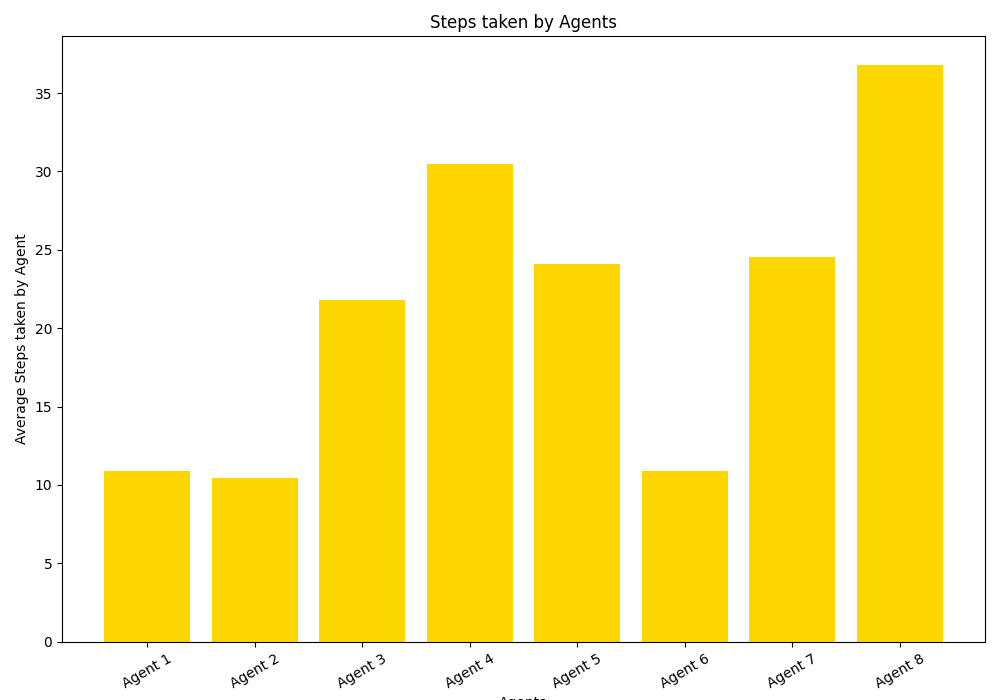
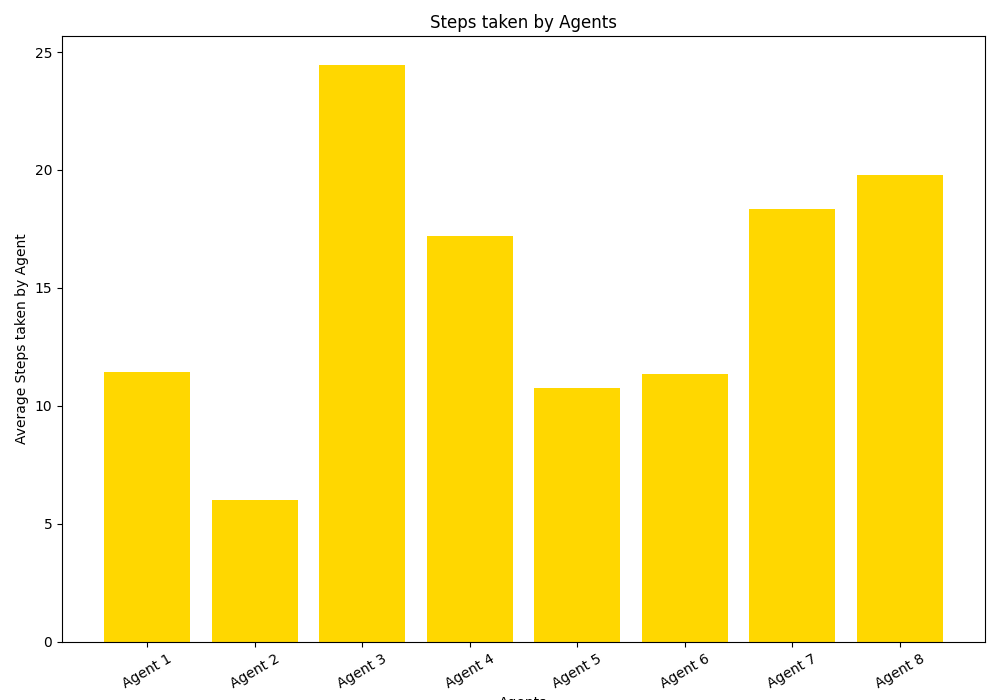
.

diff --git a/main.py b/main.py
@@ -9,8 +9,8 @@ import matplotlib.pyplot as plt
 
 def main():
 
-    num_runs = 100
-    num_environments = 30
+    num_runs = 3
+    num_environments = 3
     total_runs = num_runs * num_environments
 
     a1_caught = 0
@@ -641,9 +641,9 @@ def main():
 
     fig_combined_partial = plt.figure(figsize = (15, 7))
 
-    plt.bar(defective_Agent_names[6:12], defective_Catch_rates[6:12], color ='green')
-    plt.bar(defective_Agent_names[6:12], defective_Death_rates[6:12], color ='maroon')
-    plt.bar(defective_Agent_names[6:12], defective_Time_Out_rates[6:12], color ='yellow')
+    plt.bar(defective_Agent_names, defective_Catch_rates, color ='green')
+    plt.bar(defective_Agent_names, defective_Death_rates, color ='maroon')
+    plt.bar(defective_Agent_names, defective_Time_Out_rates, color ='yellow')
     colors = {'Deaths':'maroon', 'Captures':'green', 'Timeouts':'yellow'}         
     labels = list(colors.keys())
     handles = [plt.Rectangle((0,0),1,1, color=colors[label]) for label in labels]
